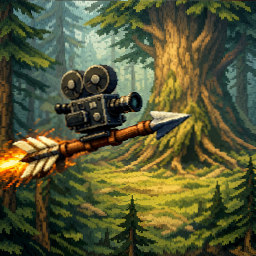
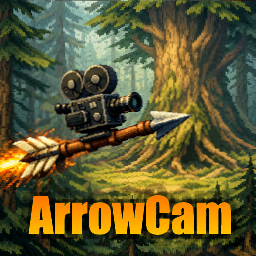
renamed to arrowcam

Changed region(s): [[0.0938, 0.7188, 0.9375, 0.9688]]

diff --git a/Killcam/ArrowCam.cs b/Killcam/ArrowCam.cs
@@ -4,16 +4,16 @@ using HarmonyLib;
 using UnityEngine;
 using UnityEngine.UI;
 
-namespace KillCamMod
+namespace ArrowCamMod
 {
     [BepInPlugin(PluginGUID, PluginName, PluginVersion)]
-    public class KillCamPlugin : BaseUnityPlugin
+    public class ArrowCamMod : BaseUnityPlugin
     {
         public const string PluginGUID = "com.oathorse.killcam";
         public const string PluginName = "KillCam";
         public const string PluginVersion = "0.1.0";
 
-        public static KillCamPlugin Instance { get; private set; }
+        public static ArrowCamMod Instance { get; private set; }
 
         public static ConfigEntry<int> PipWidth;
         public static ConfigEntry<int> PipHeight;
@@ -155,7 +155,7 @@ namespace KillCamMod
                 // ── LINGERING ────────────────────────────────────────────────
                 case Phase.Lingering:
                     _timer += Time.deltaTime;
-                    if (_timer >= KillCamPlugin.LingerDuration.Value)
+                    if (_timer >= ArrowCamMod.LingerDuration.Value)
                     {
                         _timer = 0f;
                         _phase = Phase.FadingOut;
@@ -165,7 +165,7 @@ namespace KillCamMod
                 // ── FADING OUT ───────────────────────────────────────────────
                 case Phase.FadingOut:
                     _timer += Time.deltaTime;
-                    float t = Mathf.Clamp01(_timer / Mathf.Max(0.001f, KillCamPlugin.FadeDuration.Value));
+                    float t = Mathf.Clamp01(_timer / Mathf.Max(0.001f, ArrowCamMod.FadeDuration.Value));
                     ApplyAlpha(1f - t);
                     if (t >= 1f)
                         Cleanup();
@@ -256,8 +256,8 @@ namespace KillCamMod
         void CreateRT()
         {
             _rt = new RenderTexture(
-                KillCamPlugin.PipWidth.Value,
-                KillCamPlugin.PipHeight.Value,
+                ArrowCamMod.PipWidth.Value,
+                ArrowCamMod.PipHeight.Value,
                 16, RenderTextureFormat.ARGB32)
             {
                 name = "KillCam_RT"
@@ -271,7 +271,7 @@ namespace KillCamMod
             DontDestroyOnLoad(camGO);
 
             _cam = camGO.AddComponent<Camera>();
-            _cam.fieldOfView = KillCamPlugin.CameraFOV.Value;
+            _cam.fieldOfView = ArrowCamMod.CameraFOV.Value;
             _cam.nearClipPlane = 0.05f;
             _cam.farClipPlane = 500f;
             _cam.targetTexture = _rt;
@@ -303,11 +303,11 @@ namespace KillCamMod
             pr.anchorMin = pr.anchorMax = new Vector2(1f, 1f);
             pr.pivot = new Vector2(1f, 1f);
             pr.sizeDelta = new Vector2(
-                KillCamPlugin.PipWidth.Value + 4,
-                KillCamPlugin.PipHeight.Value + 4);
+                ArrowCamMod.PipWidth.Value + 4,
+                ArrowCamMod.PipHeight.Value + 4);
             pr.anchoredPosition = new Vector2(
-                -KillCamPlugin.PipMarginRight.Value,
-                -KillCamPlugin.PipMarginTop.Value);
+                -ArrowCamMod.PipMarginRight.Value,
+                -ArrowCamMod.PipMarginTop.Value);
 
             _border = panel.AddComponent<Image>();
             _border.color = new Color(0f, 0f, 0f, 0.75f);

diff --git a/Killcam/Package/README.md b/Killcam/Package/README.md
@@ -1,4 +1,4 @@
-# Killcam
+# ArrowCam
 
 Attaches a picture-in-picture camera to every arrow, bolt, or spear you throw/shoot.
 While the projectile is in flight a small inset viewport appears below the minimap in the
